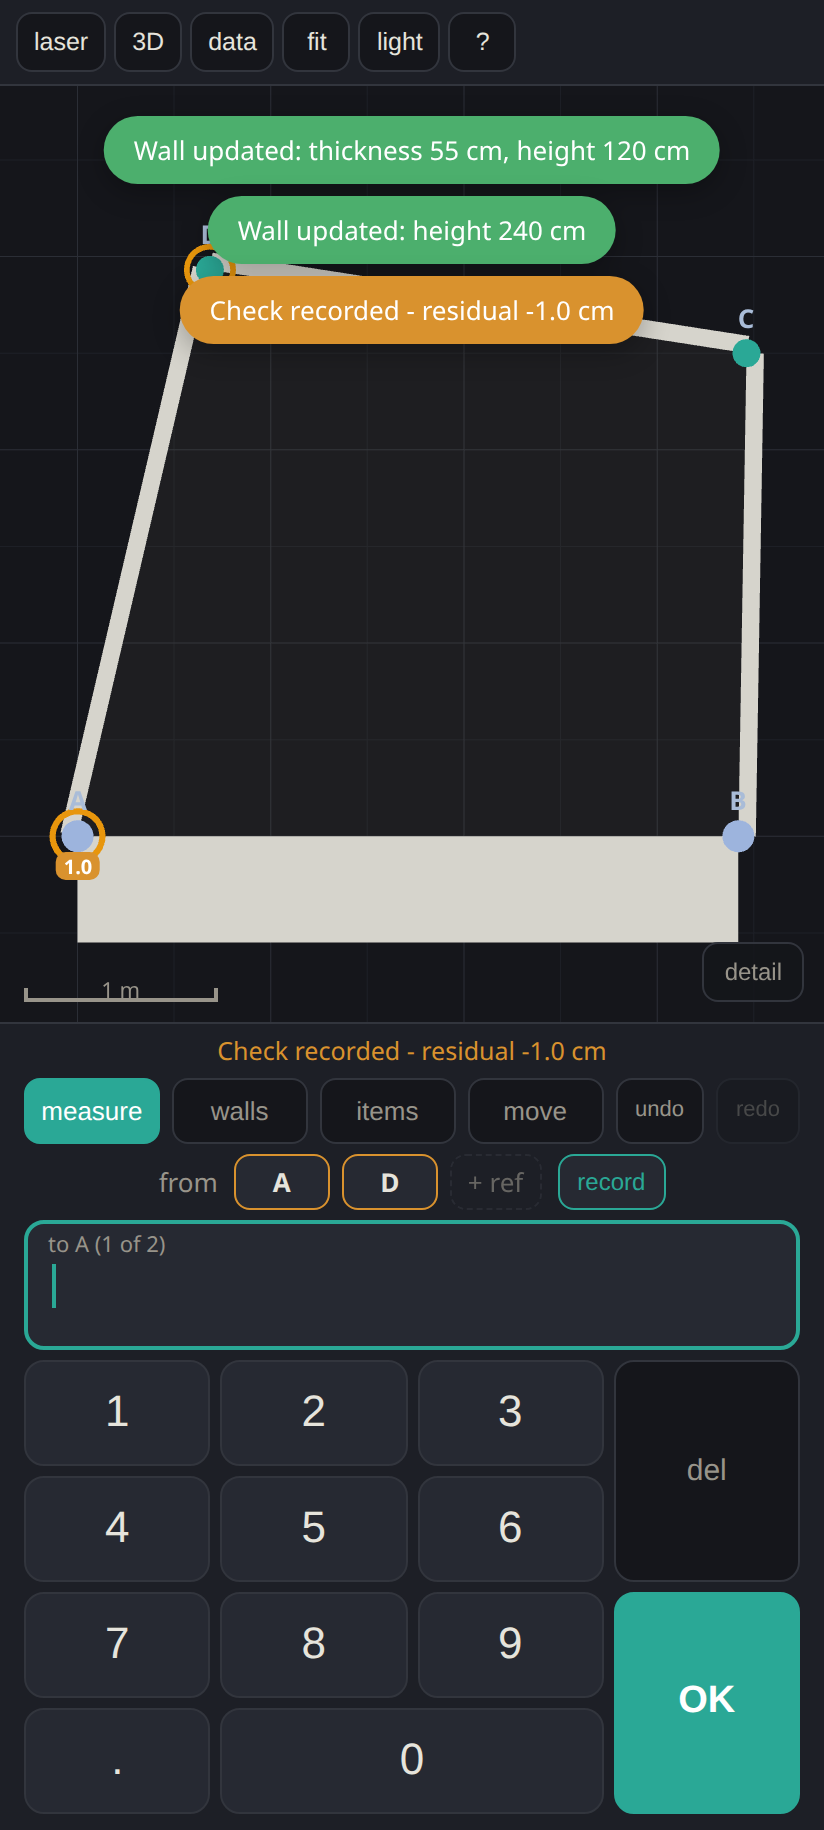
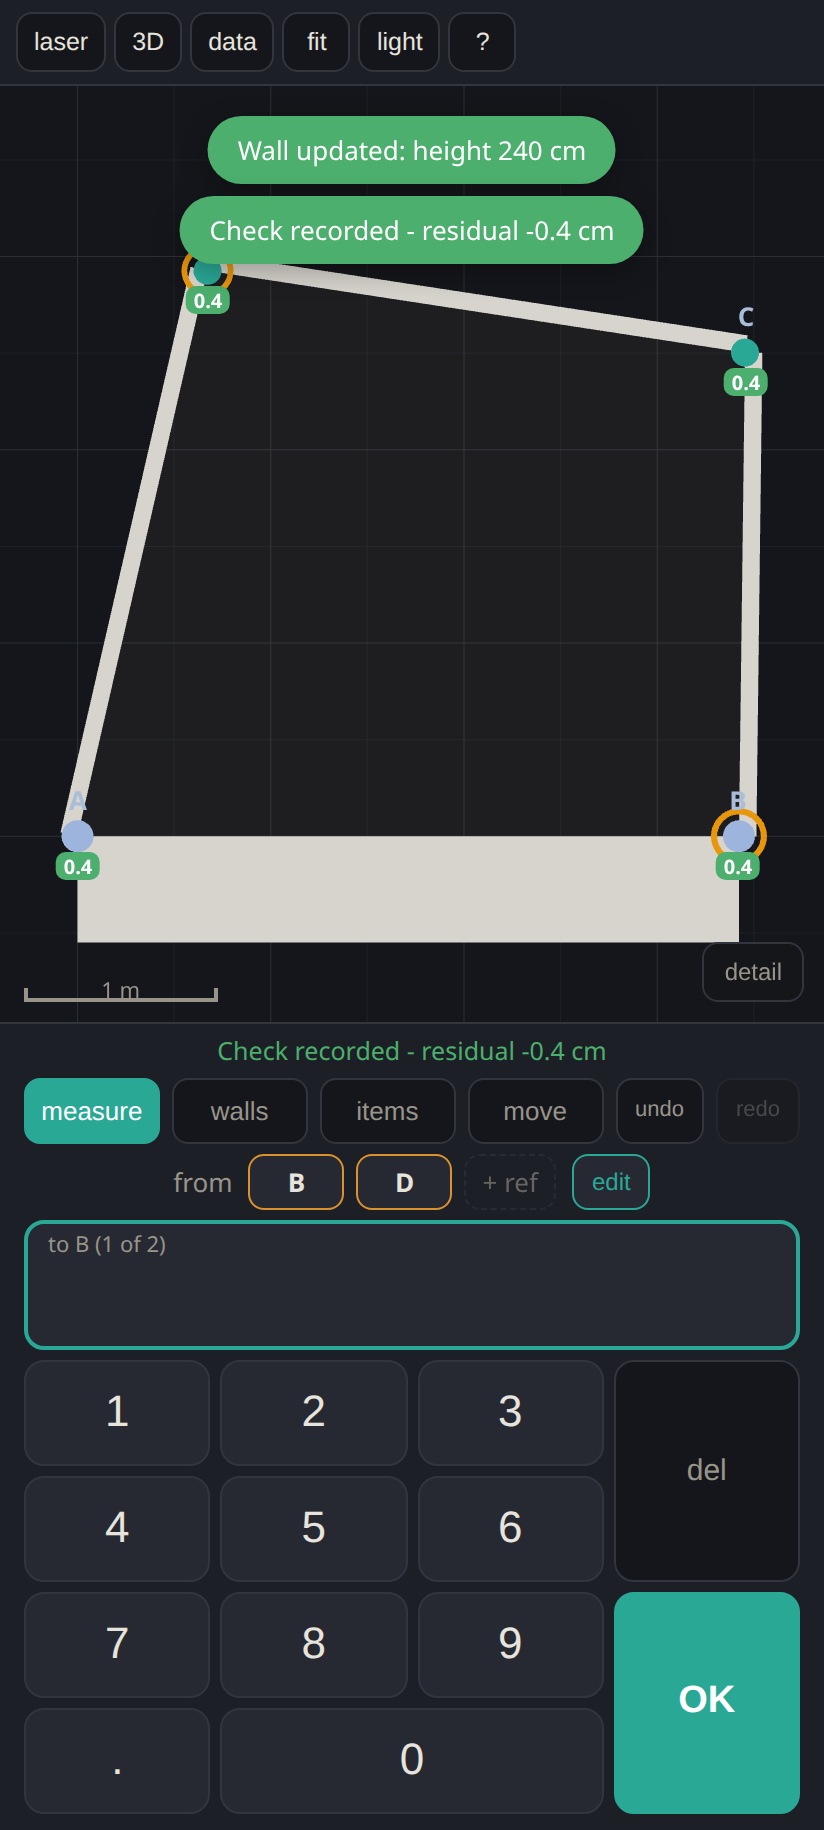
record button: says edit when the pair is already measured
The label now states what pressing will do - 'record' for a fresh pair,
'edit' when the two selected points already have a measurement between
them (tooltip shows the current value, and the sanity-guard prompt
names the button by its live label). One true distance exists between
two points, so the typed-value path updates that measurement in place
too, matching the flow path; nothing can create a second, rival value
for the same pair from this button any more.

The driver previously relied on exactly that duplication: it recorded a
'check' on A-D, a pair D's own fix already measured. Re-based those
tests on B-D, a genuinely untied pair, which is what a redundant check
means - and added coverage for the label flipping, in-place update via
both routes, and the freed-pair record path.

diff --git a/js/main.js b/js/main.js
@@ -110,6 +110,14 @@ const activeFloor = () => store.state.activeFloor;
 const onFloor = (thing) => thing && thing.floor === activeFloor();
 const floorVisible = (id) => store.floor(id)?.visible !== false;
 const offFloorRefs = () => ui.refs.filter((id) => !onFloor(store.point(id)));
+// The measurement already recorded between the two selected points, if
+// any - the button says "edit" for these and "record" for a fresh pair.
+const pairMeasurement = () => {
+  if (ui.refs.length !== 2) return null;
+  const [p, q] = ui.refs;
+  return store.state.measurements.find(
+    (m) => (m.p === p && m.q === q) || (m.p === q && m.q === p)) ?? null;
+};
 
 function say(text, cls = '') {
   ui.message = text ? { text, cls } : null;
@@ -352,7 +360,7 @@ function surveyIssues() {
       body: `Millimetres of laser noise become centimetres of position error at this angle, with no residual to show for it. ${candTxt}`,
       steps: cands.length ? [
         `Measure ${pt.name} to ${cands[0].pt.name} (about ${fmtDist(cands[0].d)}).`,
-        'Tap the button below (it selects the pair), type the distance, press record.',
+        'Tap the button below (it selects the pair), then press record and type the distance.',
       ] : [],
       selectIds: cands.length ? [pt.id, cands[0].pt.id] : [pt.id],
     });
@@ -385,7 +393,7 @@ function surveyIssues() {
         body: 'An edge this short inherits the relative error of two long fixes, so its angle is unreliable - it will draw slanted even when the real corners are square. Measure it directly with a ruler or tape; for a protrusion, also record the two diagonals across it.',
         steps: [
           `Measure ${na} to ${nb} directly.`,
-          'Tap the button below (it selects the pair), type the value, press record.',
+          'Tap the button below (it selects the pair), then press record and type the value.',
         ],
         selectIds: [a, b],
       });
@@ -758,13 +766,24 @@ function commitCheck() {
   const p1 = pos(ui.refs[0]), p2 = pos(ui.refs[1]);
   const predicted = Math.hypot(p2.x - p1.x, p2.y - p1.y);
   const diff = Math.abs(v - predicted);
+  const existing = pairMeasurement();
   const armKey = `${ui.refs[0]}:${ui.refs[1]}:${v}`;
   if (diff > 0.15 && ui.checkArm !== armKey) {
     ui.checkArm = armKey;
-    return say(`${n1} to ${n2} currently solves to ${fmtDist(predicted)}, but you typed ${fmtDist(v)} - ${(diff * 100).toFixed(0)} cm apart. Typo or cm/m mix-up? Press record again to keep it anyway.`, 'err');
+    return say(`${n1} to ${n2} currently solves to ${fmtDist(predicted)}, but you typed ${fmtDist(v)} - ${(diff * 100).toFixed(0)} cm apart. Typo or cm/m mix-up? Press ${existing ? 'edit' : 'record'} again to keep it anyway.`, 'err');
   }
   ui.checkArm = null;
   if (!ui.coachDone) coachFinish();
+  // An already-measured pair is CHANGED, never duplicated - whichever
+  // route got here (typed then pressed, or through the flow).
+  if (existing) {
+    store.updateMeasurement(existing.id, v);
+    ui.fields = ['', ''];
+    ui.active = 0;
+    const r0 = (store.solved.mres.get(existing.id) || 0) * 100;
+    return note(`${n1} to ${n2} updated to ${fmtDist(v)} - residual ${r0.toFixed(1)} cm`,
+      Math.abs(r0) < 1 ? 'good' : Math.abs(r0) < 3 ? 'warn' : 'err');
+  }
   const id = store.addMeasurement(ui.refs[0], ui.refs[1], v);
   const r = (store.solved.mres.get(id) || 0) * 100;
   ui.fields = ['', ''];
@@ -1201,7 +1220,7 @@ function renderDoctor() {
   if (!issues.length) {
     list.innerHTML = '<div class="doc-card info"><b>No problems found</b>' +
       '<p>Every point solves, no side flags disagree, residuals are inside 3 cm and no fix has a dangerously shallow angle. ' +
-      'Recorded diagonals are still the cheapest insurance - select two points, type the taped or shot distance, press record.</p></div>';
+      'Recorded diagonals are still the cheapest insurance - select two points, press record, type the taped or shot distance.</p></div>';
     return;
   }
   for (const iss of issues) {
@@ -1220,7 +1239,7 @@ function renderDoctor() {
         ui.flow = null;
         $('doctor-sheet').hidden = true;
         say(iss.selectIds.length > 1
-          ? 'Pair selected - type the measured distance, then press record'
+          ? 'Pair selected - press record (or edit) and type the measured distance'
           : 'Point selected - press flip to heal it, or delete if it is wrong');
       });
       const row = document.createElement('div');
@@ -1624,7 +1643,12 @@ function renderPanel() {
       if (id) el.addEventListener('click', () => toggleRef(id));
       slots.appendChild(el);
     }
+    const pairM = pairMeasurement();
     $('check-btn').style.display = ui.refs.length === 2 && !ui.flow && !offFloorRefs().length ? '' : 'none';
+    $('check-btn').textContent = pairM ? 'edit' : 'record';
+    $('check-btn').title = pairM
+      ? `change the recorded distance between these two points (now ${fmtDist(pairM.d)})`
+      : 'record the measured distance between these two points';
     $('stack-btn').style.display = !ui.flow && offFloorRefs().length ? '' : 'none';
     $('del-point').style.display = ui.mode === 'measure' && !ui.flow && ui.refs.length === 1 ? '' : 'none';
     const selFlip = ui.refs.length === 1 && store.point(ui.refs[0])?.fix?.side != null ? ui.refs[0] : null;
@@ -2222,7 +2246,7 @@ const COACH_TIPS = [
   'The baseline: tape two marks (A and B) at either end of a straight wall, measure between them with the laser, type it in. Every other point gets fixed by distances back to points like these.',
   'Reference points first: new points are reference-only while walling is off. Fix a few spread around the space - especially ones that can see what A and B cannot (through doorways, past corners). Rays crossing near 90 degrees make the strongest fixes.',
   'Build the outline: in walls mode tap the corner points in order, and tap the first corner again to close the room (the ceiling height is asked once closed). Or toggle walling: on (also in walls mode) and new points chain into the outline as you measure them.',
-  'Tighten it: select two points, type a measured distance, press record. Disagreement shows up as residuals, and the detail button reveals wall angles and weak fixes. That is the whole loop - references, corners, checks.',
+  'Tighten it: select two points, press record, type a measured distance. Disagreement shows up as residuals, and the detail button reveals wall angles and weak fixes. That is the whole loop - references, corners, checks.',
 ];
 
 function coachStage() {
@@ -2608,7 +2632,7 @@ $('check-btn').addEventListener('click', () => {
   const [n1, n2] = ui.refs.map((id) => store.point(id).name);
   startFlow({ kind: 'record', p, q, measId: existing?.id ?? null },
     existing
-      ? `${n1} to ${n2} is currently ${fmtDist(existing.d)} - type the new value, OK updates it`
+      ? `Editing ${n1} to ${n2} (now ${fmtDist(existing.d)}) - type the new value, OK saves it`
       : `${n1} to ${n2}: type the measured distance, OK records it`);
 });
 $('stack-btn').addEventListener('click', stackRefs);

diff --git a/index.html b/index.html
@@ -59,7 +59,7 @@
       <div id="refbar">
         <span>from</span>
         <span id="refslots"></span>
-        <button id="check-btn" title="record the typed distance between the two selected points">record</button>
+        <button id="check-btn" title="record the measured distance between these two points">record</button>
         <button id="stack-btn" style="display:none" title="pin the selected point(s) onto this floor, directly above">stack here</button>
         <button id="del-point" style="display:none" title="delete the selected point">delete</button>
         <button id="flip-btn" style="display:none" title="mirror this point to its other candidate position"></button>
@@ -191,7 +191,7 @@
       <li>Prefer chaining instead? Toggle <b>walling: on</b> (in walls mode) and each new point links into the wall outline as you measure, until the room closes (turning it on before any outline exists starts the run at A-B). Fix a wrong link in walls mode with step back; if a reference point slipped into the outline, select it and press <b>unwall</b> - the loop reroutes past it and the point stays usable.</li>
       <li>Placed a point on the wrong side and only noticed later? Tap it so it is the only selected point and press <b>flip</b> - it mirrors to the other candidate and everything measured from it re-solves. If those dependents landed mirrored as well, press flip a second time and they mirror too.</li>
       <li>The <b>survey check</b> (the amber/red pill in the header when something needs attention, or the button in the data sheet) diagnoses problems in plain words - unsolved points, disagreeing measurements, weak fix angles - and lists the exact steps to fix each, including which existing point to shoot from for the strongest improvement.</li>
-      <li>Extra check measurements (e.g. a room diagonal): select the 2 points and press <b>record</b> - it asks for the one distance and OK saves it. If the pair already has a measurement, OK updates it in place instead of duplicating. (Typing the value before pressing record still works in one press.) Every point is adjusted to best fit all measurements; disagreement shows as residuals, and a reading far off the current solution is challenged before it is accepted. Edit or delete any measurement in the data sheet. The <b>detail</b> button overlays the interior angle at every wall corner and, for a selected point, the circles it was fixed from; while typing a new point the proposed wall's corner angle previews live.</li>
+      <li>Extra check measurements (e.g. a room diagonal): select the 2 points and press the button beside the reference slots - it reads <b>record</b> for a fresh pair and <b>edit</b> when that pair already has a measurement, so it always says what it will do. Either way you get one field and OK saves; an existing measurement is changed in place, never duplicated. (Typing the value before pressing the button still commits in one press.) Every point is adjusted to best fit all measurements; disagreement shows as residuals, and a reading far off the current solution is challenged before it is accepted. Edit or delete any measurement in the data sheet. The <b>detail</b> button overlays the interior angle at every wall corner and, for a selected point, the circles it was fixed from; while typing a new point the proposed wall's corner angle previews live.</li>
     </ol>
     <h2>walls, items, 3D</h2>
     <p>After the first room, walls are manual: in <b>walls</b> mode tap points in order (first point again closes; each room keeps its own ceiling height). In <b>items</b> mode create an item, then place it by two distances to a corner (or tap existing points as corners), on a wall, or drop it and drag in <b>move</b> mode. Measuring also works inside the 3D view - the survey pins are tappable there.</p>
